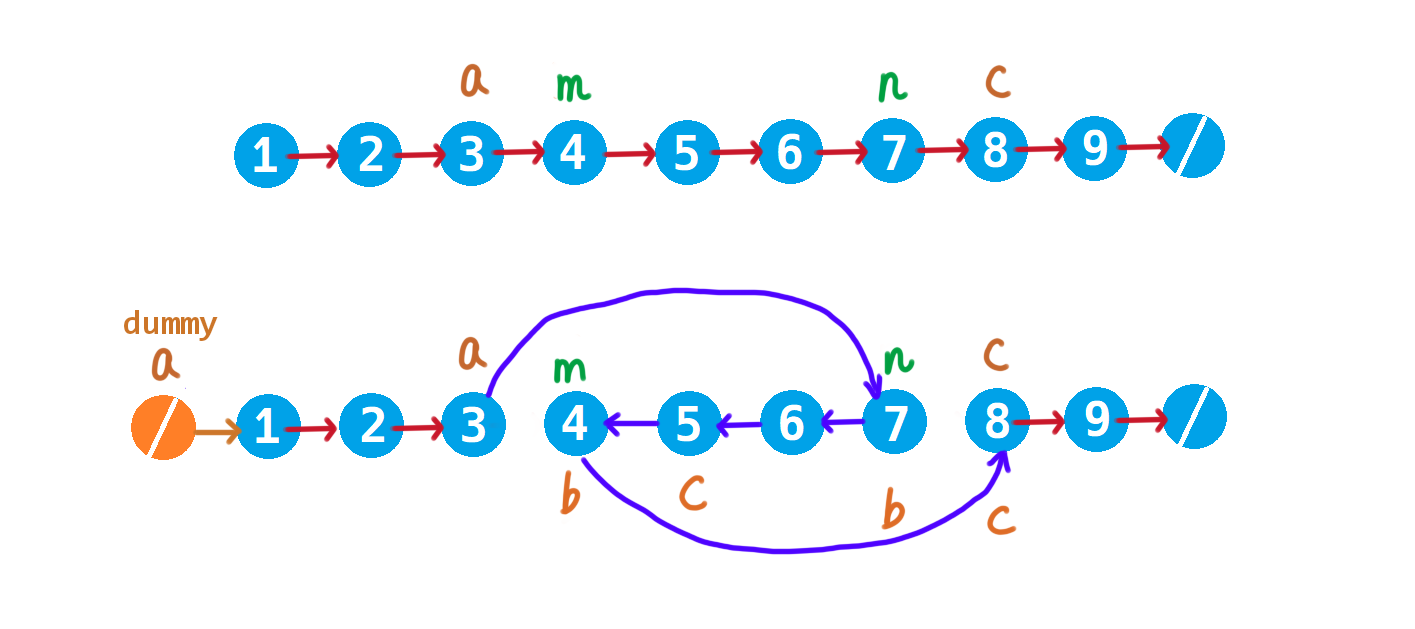
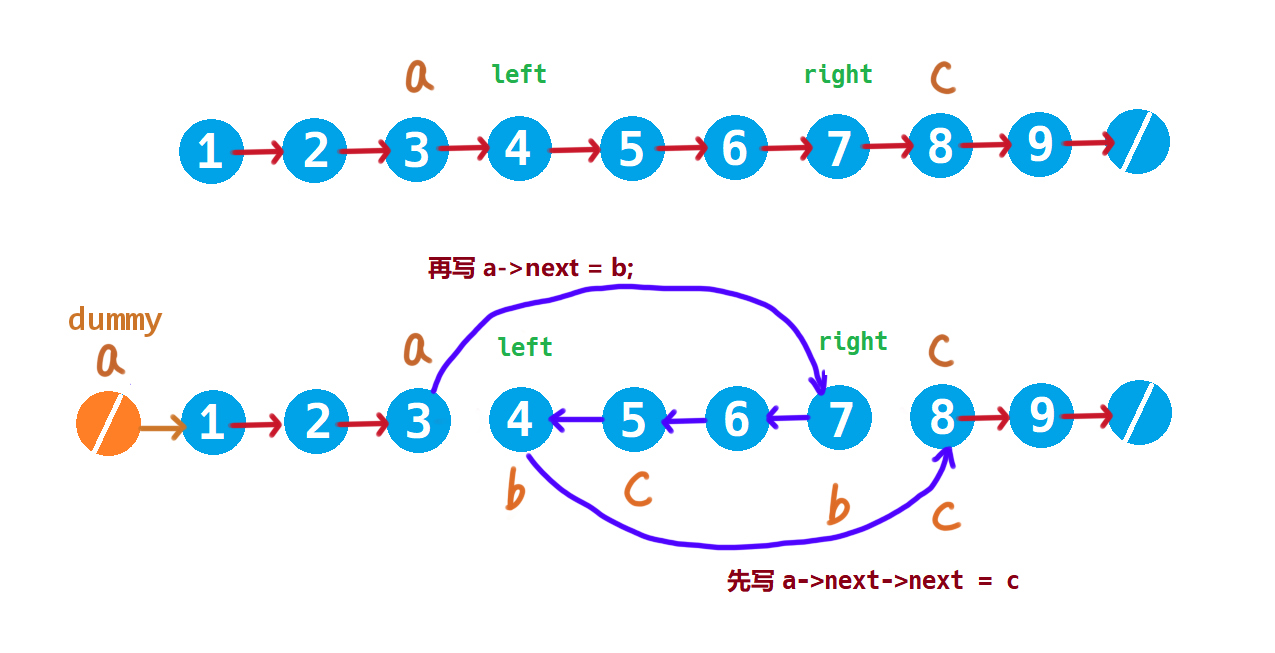
反转链表

Changed region(s): [[0.0306, 0.3927, 0.9176, 0.9062], [0.1224, 0.0906, 0.9176, 0.3021]]

diff --git a/Section05_Solutions/0092_Reverse Linked List II_反转链表 II/cpp_1_迭代.cpp b/Section05_Solutions/0092_Reverse Linked List II_反转链表 II/cpp_1_迭代.cpp
@@ -12,7 +12,7 @@ struct ListNode {
 
 class Solution {
 public:
-    ListNode* reverseBetween(ListNode* head, int m, int n) {
+    ListNode* reverseBetween(ListNode* head, int m, int n) { //m是left, n是right
         auto dummy = new ListNode(-1);
         dummy->next = head;
 
@@ -22,9 +22,9 @@ public:
         auto b = a->next, c = b->next;
         // 第一步：翻转 n-m 条边
         for (int i = 0; i < n - m; i++) {
-            auto t = c->next;
+            auto d = c->next;
             c->next = b; 
-            b = c, c = t;
+            b = c, c = d;
         }
         // 第二步：
         // 让 m (m其实就是 a->next) 指向 c

diff --git a/Section05_Solutions/0206_Reverse Linked List_反转链表/cpp_1_迭代_v2.cpp b/Section05_Solutions/0206_Reverse Linked List_反转链表/cpp_1_迭代_v2.cpp
@@ -14,7 +14,7 @@ using namespace std;
 class Solution {
 public:
     ListNode* reverseList(ListNode* head) {
-        if (!head)  return NULL;
+        if (!head || !head->next)  return head;
         auto a = head, b = a->next;
         while (b) {
             auto c = b->next;
@@ -22,7 +22,7 @@ public:
             a = b;
             b = c;
         }
-        head->next = NULL;
+        head->next = nullptr;
         return a;
     }
 };

diff --git a/Section05_Solutions/0206_Reverse Linked List_反转链表/cpp_1_迭代_v1.cpp b/Section05_Solutions/0206_Reverse Linked List_反转链表/cpp_1_迭代_v1.cpp
@@ -26,9 +26,3 @@ public:
         return pre;
     }
 };
-
-
-int main() {
-
-    return 0;
-}
